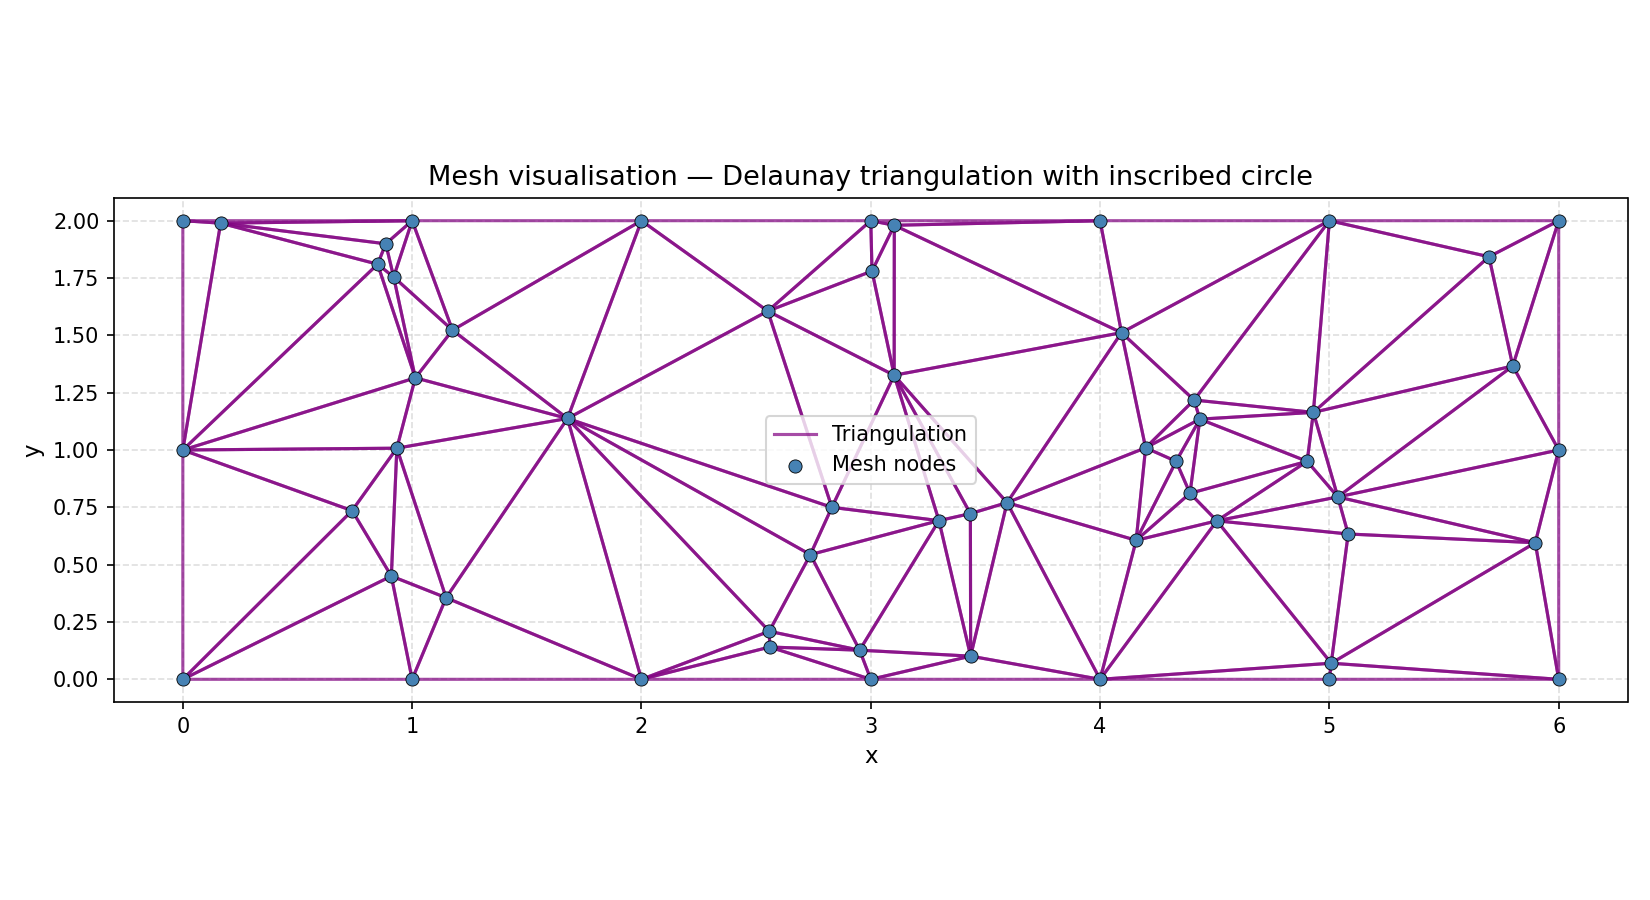
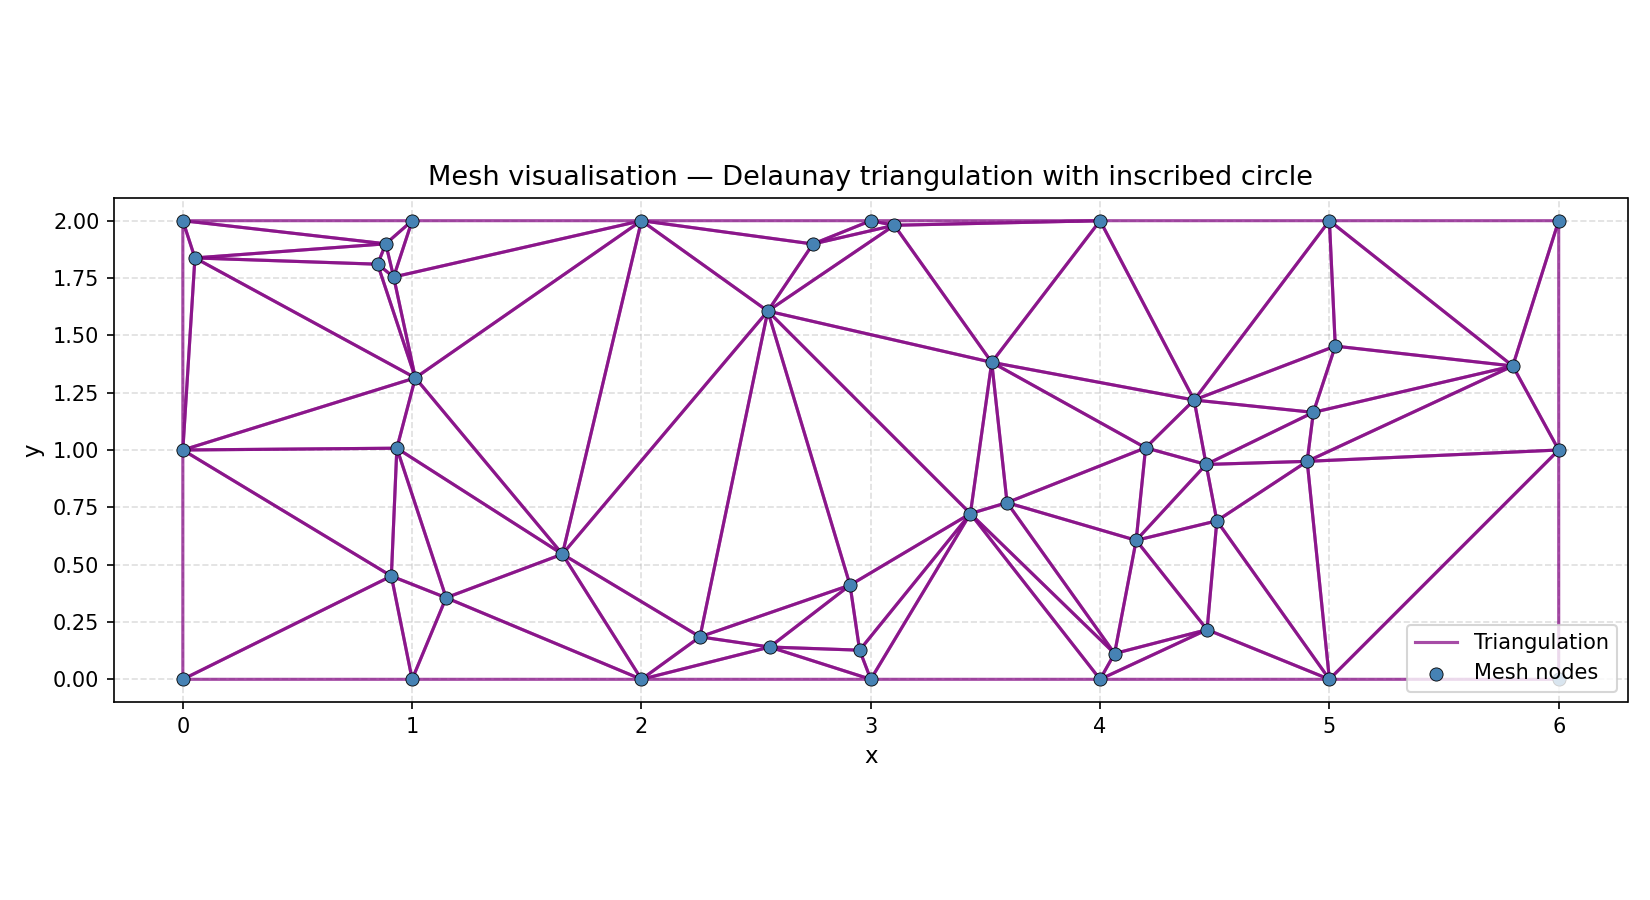
Triangulation fully working and integrated with old 2D heat Eqation Solver

diff --git a/src/app_support/app_FEM.cpp b/src/app_support/app_FEM.cpp
@@ -23,26 +23,26 @@ namespace app_support::FEM::run
         mesh.triangulate(static_cast<double>(nx), static_cast<double>(ny));   
     }
 
-    void run_FEM_Heat_Equation(meshgeneration::Mesh& mesh) {
+    std::vector<double> run_FEM_Heat_Equation(meshgeneration::Mesh& mesh) {
         // Solve steady-state Laplace (heat) equation on a 2x6 FEM mesh.
         // Dirichlet BCs: T=100 at x=0 (left wall), T=0 at x=6 (right wall).
         // Neumann (zero flux) BCs on top and bottom — satisfied naturally.
         // Exact solution: T(x) = 100*(6-x)/6   (linear in x)
         const int N = static_cast<int>(mesh.nodes.size());
-        const int nx = mesh.getMaxNodeCol();
-        const int ny = mesh.getMaxNodeRow();
-        int stride = nx + 1;
+        const int MaxX = mesh.getMaxNodeCol();
 
         auto K = nt::fem::assembleGlobalStiffnessMatrix(mesh);
         std::vector<double> rhs(N, 0.0);
 
-        // Enforce Dirichlet BCs on left (x=0) and right (nx_max) columns.
-        for (int row = 0; row <= ny; ++row) {
-            nt::fem::applyDirichletBC(K, rhs, row * stride,          100.0);
-            nt::fem::applyDirichletBC(K, rhs, row * stride + nx,       0.0);
+        for (size_t i = 0; i < mesh.nodes.size(); ++i) {
+            if (std::abs(mesh.nodes[i].x) < 1e-9)
+                nt::fem::applyDirichletBC(K, rhs, i, 100.0);  // left wall
+            if (std::abs(mesh.nodes[i].x - MaxX) < 1e-9)
+                nt::fem::applyDirichletBC(K, rhs, i, 0.0);    // right wall
         }
         std::vector<double> T = nt::fem::gaussianElimination(K, rhs);
-    }
+    return T;
+} 
 }
 
 /*

diff --git a/include/mesh_generation/mesh_generation.h b/include/mesh_generation/mesh_generation.h
@@ -231,6 +231,14 @@ namespace meshgeneration {
             triangleNodes.push_back({ val1, val2, -1 }); // Super-triangle nodes get negative IDs
             triangleNodes.push_back({ val2, val3, -2 });
             triangleNodes.push_back({ val3, val1, -3 });
+
+            // Ensure the triangle is oriented counter-clockwise for consistency in the algorithm
+            double cross = (triangleNodes[1].x - triangleNodes[0].x) * (triangleNodes[2].y - triangleNodes[0].y)
+             - (triangleNodes[1].y - triangleNodes[0].y) * (triangleNodes[2].x - triangleNodes[0].x);
+            if (cross > 0)
+                std::swap(triangleNodes[1], triangleNodes[2]);
+
+
             triangleEdges.push_back({ triangleNodes[0].Node_id, triangleNodes[1].Node_id, -1 });
             triangleEdges.push_back({ triangleNodes[1].Node_id, triangleNodes[2].Node_id, -2 });
             triangleEdges.push_back({ triangleNodes[2].Node_id, triangleNodes[0].Node_id, -3 });
@@ -262,7 +270,7 @@ namespace meshgeneration {
             std::vector<Element> triangulation_elements = superTriangleElements;
             triangulation_elements[0].Element_id = element_id_counter++;
 
-            for(const auto& point : all_points){
+            for(const auto& point : nodes){
                 std::vector<Element> badTriangles;
                 for(const auto& triangle : triangulation_elements){
                     Node n0 = all_points.at(id_to_index.at(triangle.n0_id));

diff --git a/apps/UI/main.cpp b/apps/UI/main.cpp
@@ -11,7 +11,7 @@
 int nx = 6;
 int ny = 2;
 int segsPerUnit = 1;
-int numRandomNodes = 40;
+int numRandomNodes = 30;
 
 int main() {
     app_support::FEM::run::run_FEM("rectangle", nx, ny, segsPerUnit, numRandomNodes);
@@ -22,8 +22,7 @@ int main() {
     app_support::FEM::UI::write_boundry_nodes_to_csv(mesh, mesh.nodes, "boundary_nodes_rectangular.csv");
     app_support::FEM::UI::write_triangulation_to_csv(mesh, mesh.elements, mesh.nodes, "triangulation.csv");
 
-    app_support::FEM::run::run_FEM_Heat_Equation(mesh);
-    std::vector<double> T(mesh.nodes.size(), 0.0);
+    std::vector<double> T = app_support::FEM::run::run_FEM_Heat_Equation(mesh);
     app_support::FEM::UI::write_Solution_to_csv(T, "steady_state_nodes.csv", mesh.nodes.size(), mesh);
 
     return 0;

diff --git a/include/app_support/app_FEM.h b/include/app_support/app_FEM.h
@@ -6,7 +6,7 @@ namespace app_support::FEM::run
 {
     void run_FEM(std::string shape, double dim1, double dim2, int segsPerUnit, int numRandomNodes);
     void run_Triangulation(meshgeneration::Mesh& mesh, int nx, int ny);
-    void run_FEM_Heat_Equation(meshgeneration::Mesh& mesh);
+    std::vector<double> run_FEM_Heat_Equation(meshgeneration::Mesh& mesh);
 }
 
 
